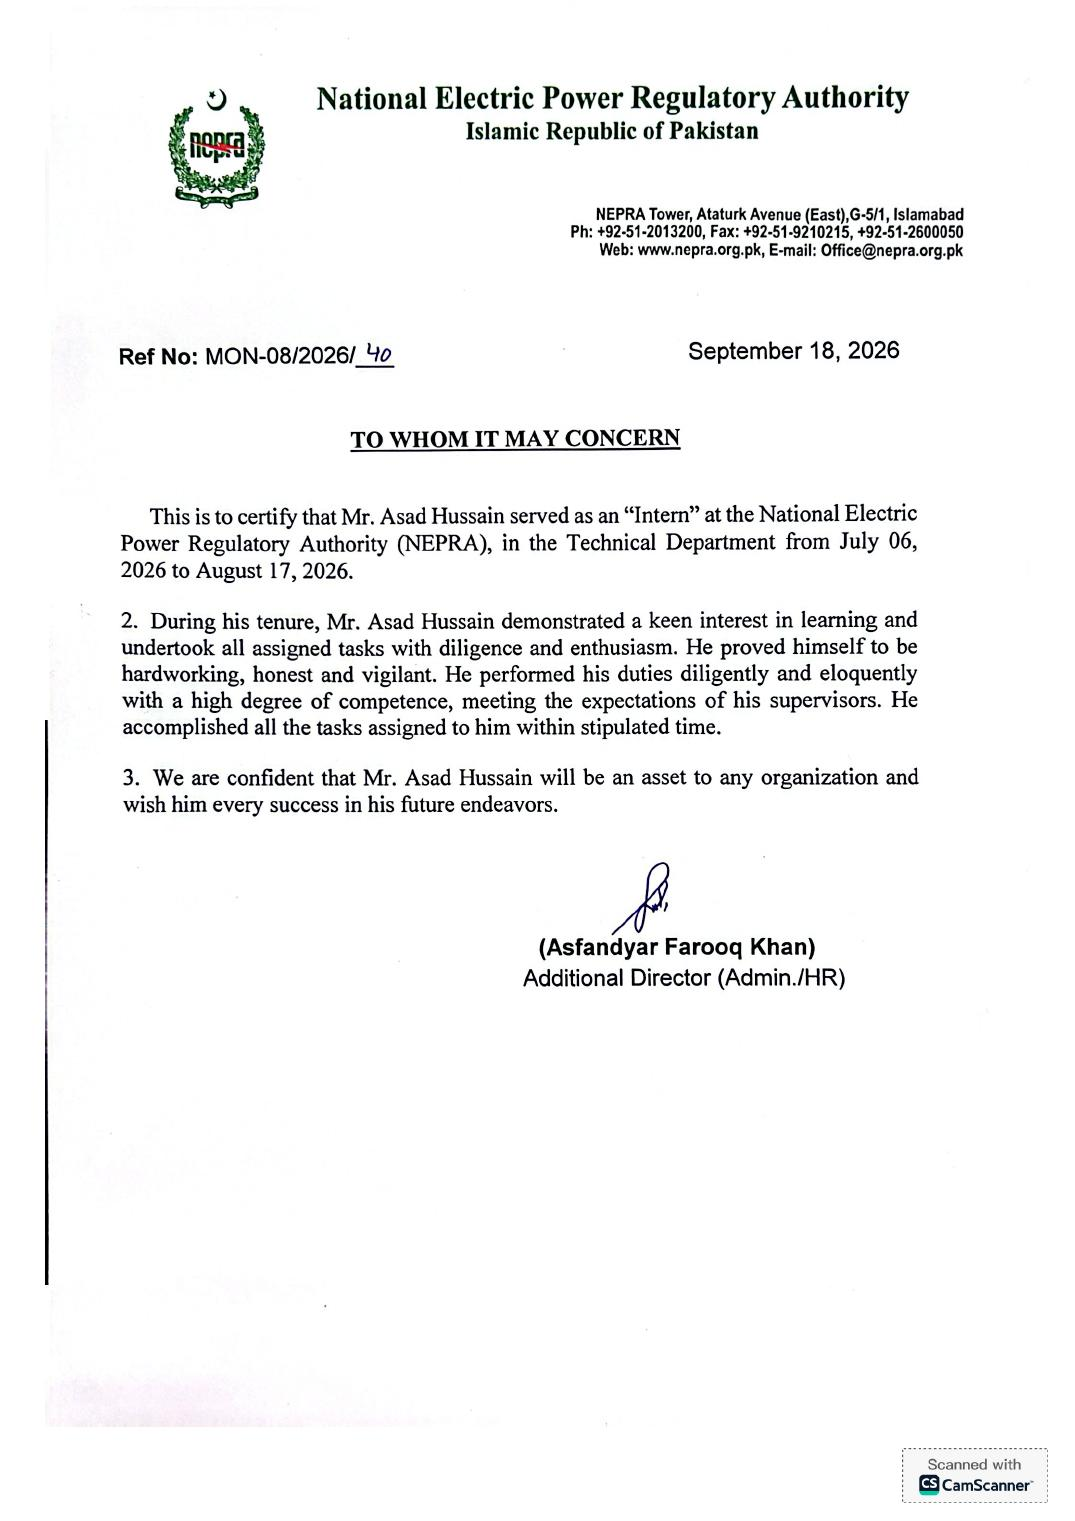
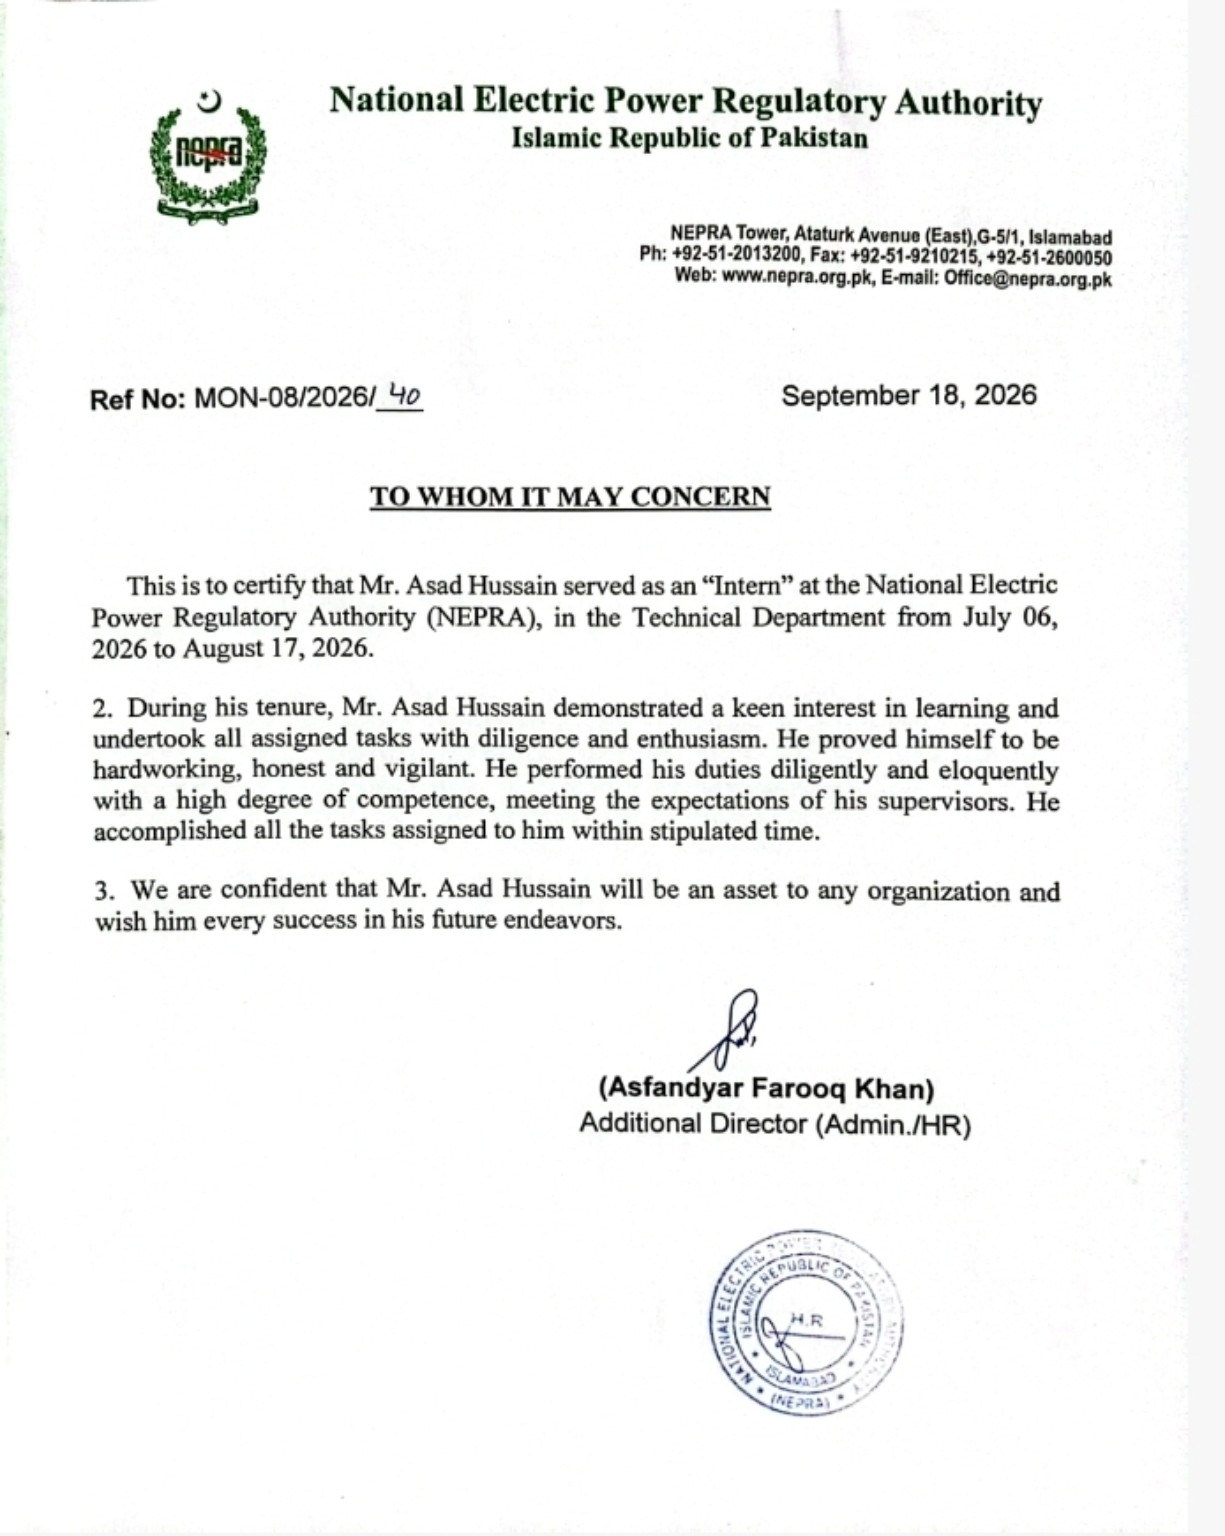
Update NEPRA certificate scan and add view and download links

diff --git a/frontend/index.html b/frontend/index.html
@@ -190,7 +190,7 @@
                             <li>Studied power transformer construction, ratings, losses, and protection practices</li>
                         </ul>
                     </div>
-                    <button type="button" class="timeline-cert" data-cert-open="nepra-internship" data-cert-img="certs/nepra-internship.jpg" data-cert-title="Technical Intern, Technical Department" data-cert-org="National Electric Power Regulatory Authority (NEPRA)">
+                    <button type="button" class="timeline-cert" data-cert-open="nepra-internship" data-cert-img="certs/nepra-internship.jpg?v=20260918" data-cert-title="Technical Intern, Technical Department" data-cert-org="National Electric Power Regulatory Authority (NEPRA)">
                         <i class="fas fa-certificate"></i> View certificate
                     </button>
                 </div>
@@ -571,11 +571,12 @@
                 <div class="cert-view-hint"><i class="fas fa-expand"></i> View certificate</div>
             </div>
             <div class="cert-card reveal" data-cert-id="nepra-internship" tabindex="0" role="button" aria-label="View Technical Intern, Technical Department certificate">
-                <div class="cert-thumb"><img src="certs/nepra-internship.jpg" alt="NEPRA internship certificate" loading="lazy"></div>
+                <div class="cert-thumb"><img src="certs/nepra-internship.jpg?v=20260918" alt="NEPRA internship certificate" loading="lazy"></div>
                 <div class="cert-badge">Internship</div>
                 <div class="cert-title">Technical Intern, Technical Department</div>
                 <div class="cert-org">National Electric Power Regulatory Authority (NEPRA)</div>
                 <div class="cert-date">6 Jul 2026 – 17 Aug 2026</div>
+                <div class="cert-date">Issued: 18 September 2026</div>
                 <div class="cert-id">Ref: MON-08/2026/40</div>
                 <div class="cert-view-hint"><i class="fas fa-expand"></i> View certificate</div>
             </div>

diff --git a/frontend/certificates.js b/frontend/certificates.js
@@ -50,6 +50,7 @@ function certCardHTML(cert) {
         <div class="cert-title">${escapeCertHTML(cert.title)}</div>
         <div class="cert-org">${escapeCertHTML(cert.org)}</div>
         <div class="cert-date">${escapeCertHTML(cert.date)}</div>
+        ${cert.issueDate ? `<div class="cert-date">Issued: ${escapeCertHTML(cert.issueDate)}</div>` : ''}
         <div class="cert-id">ID: ${escapeCertHTML(cert.credentialId)}</div>
         <div class="cert-view-hint"><i class="fas fa-expand"></i> View certificate</div>
     </div>`;
@@ -104,6 +105,8 @@ function openCertModal(cert, cardEl) {
       <img src="${escapeCertHTML(imageUrl)}" alt="${escapeCertHTML(title)} certificate" class="cert-modal-image">
       <h3>${escapeCertHTML(title)}</h3>
       <p>${escapeCertHTML(org)}</p>
+      <a href="${escapeCertHTML(imageUrl)}" target="_blank" rel="noopener" class="cert-modal-verify">Open full-size certificate <i class="fas fa-external-link-alt"></i></a>
+      <a href="${escapeCertHTML(documentUrl || imageUrl)}" download class="cert-modal-verify">Download certificate <i class="fas fa-download"></i></a>
       ${documentUrl ? `<a href="${escapeCertHTML(documentUrl)}" target="_blank" rel="noopener" class="cert-modal-verify">Open original PDF <i class="fas fa-external-link-alt"></i></a>` : ''}
       ${verifyUrl ? `<a href="${escapeCertHTML(verifyUrl)}" target="_blank" rel="noopener" class="cert-modal-verify">Verify credential <i class="fas fa-external-link-alt"></i></a>` : ''}
     `;
